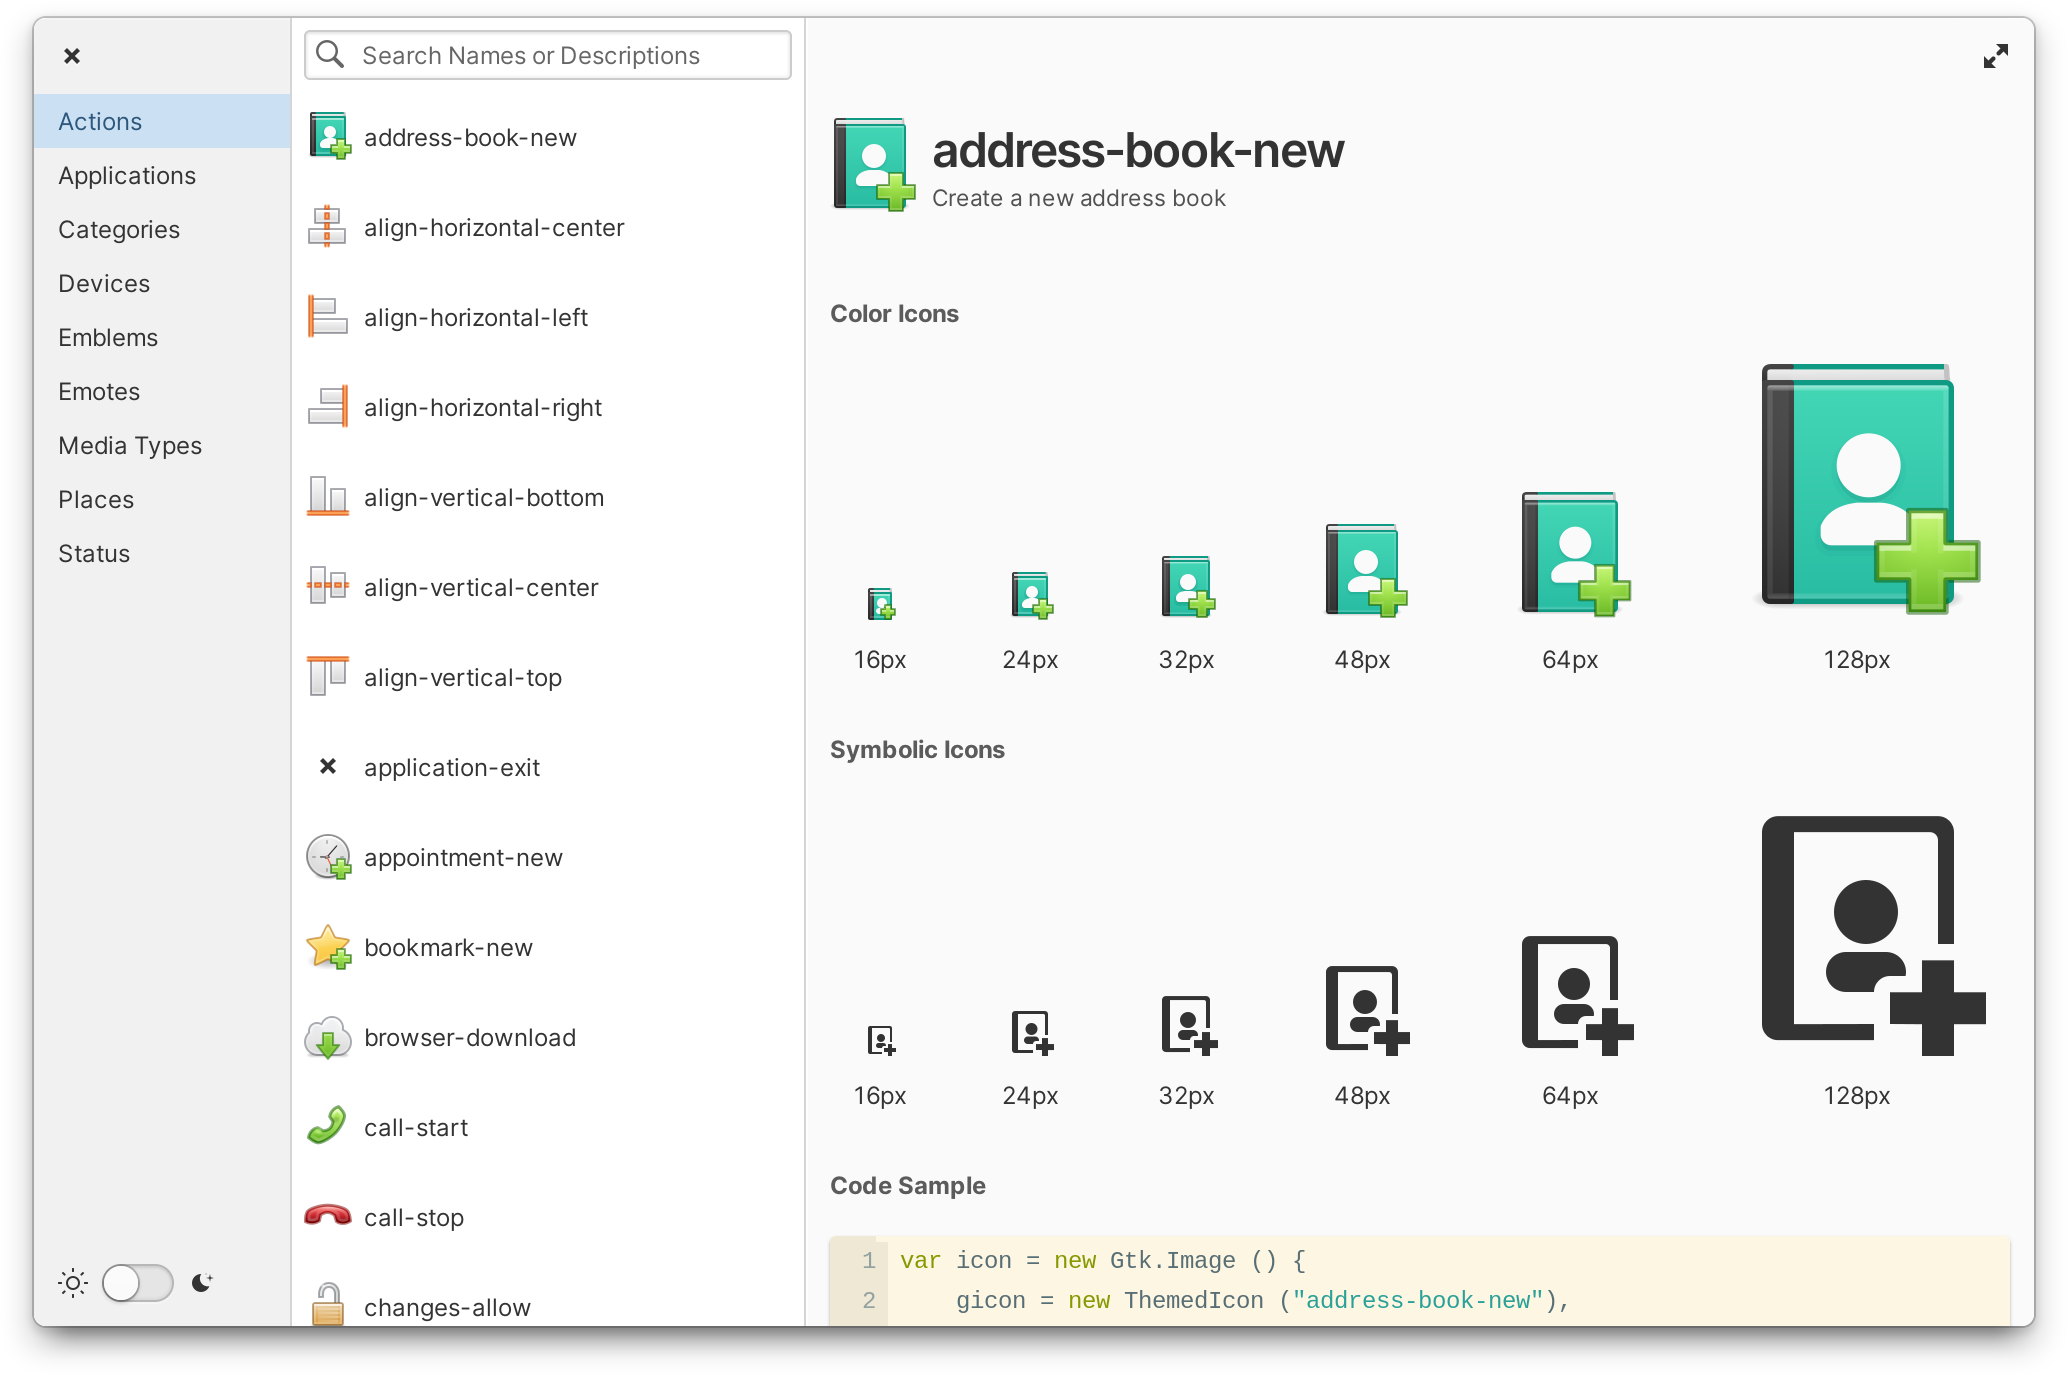
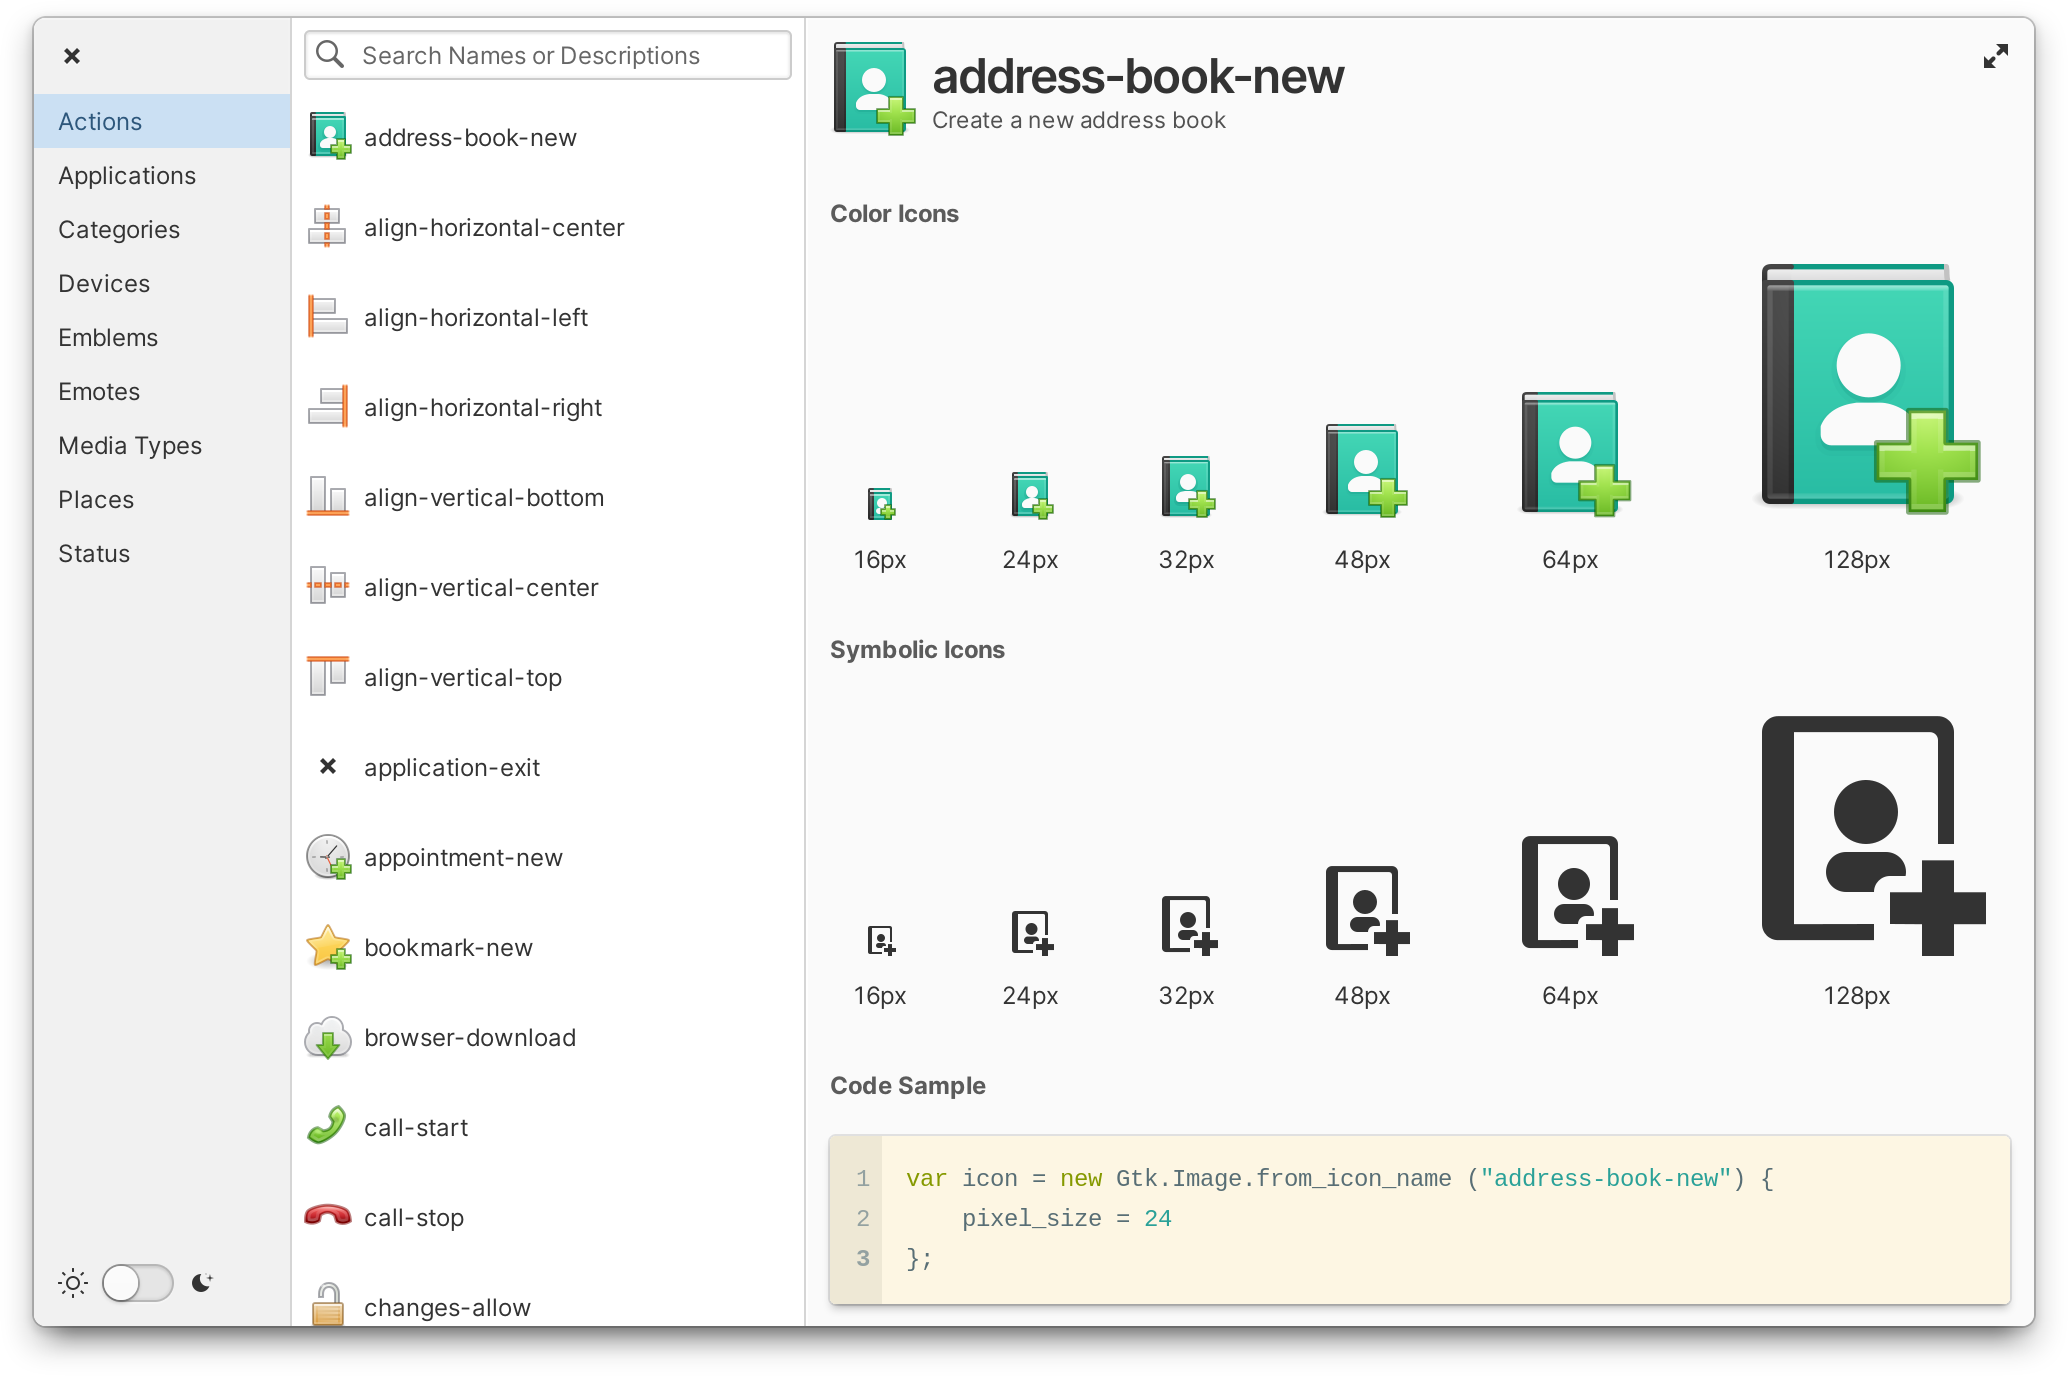
IconView: use sticky header (#13)

diff --git a/data/Application.css b/data/Application.css
@@ -1,12 +1,38 @@
-.code {
-    background-color: #fdf6e3;
-    background-image:
-        linear-gradient(to right,
-            #eee8D5 calc(10px + 1.1em),
-            #fdf6e3 calc(10px + 1.1em)
+.titlebar + scrolledwindow undershoot.top {
+    background:
+        linear-gradient(
+            @borders,
+            alpha(black, 0.05) 1px,
+            alpha(black, 0.0) 0.444rem
         );
-    border-radius: 3px;
-    box-shadow: 0 1px 1px rgba(0, 0, 0, 0.12), 0 1px 2px rgba(0, 0, 0, 0.20);
-    padding: 3px;
 }
 
+.header-area > image {
+    -gtk-icon-size: 48px;
+    padding: 0.666rem 0 0.666rem 0.666rem;
+}
+
+.header-area > image:dir(ltr) {
+    /*Match square icon canvas whitespace at 48px*/
+    margin-left: -4px;
+    margin-right: 7px;
+}
+
+.header-area > image:dir(rtl) {
+    margin-left: 7px;
+    margin-right: -4px;
+}
+
+.header-area label.title-2 {
+    font-weight: 600;
+    font-size: 2rem;
+}
+
+.header-area label:not(.title-2) {
+    font-size: 0.95rem;
+    opacity: 0.85;
+}
+
+.content-area {
+    padding: 1.33rem;
+}
